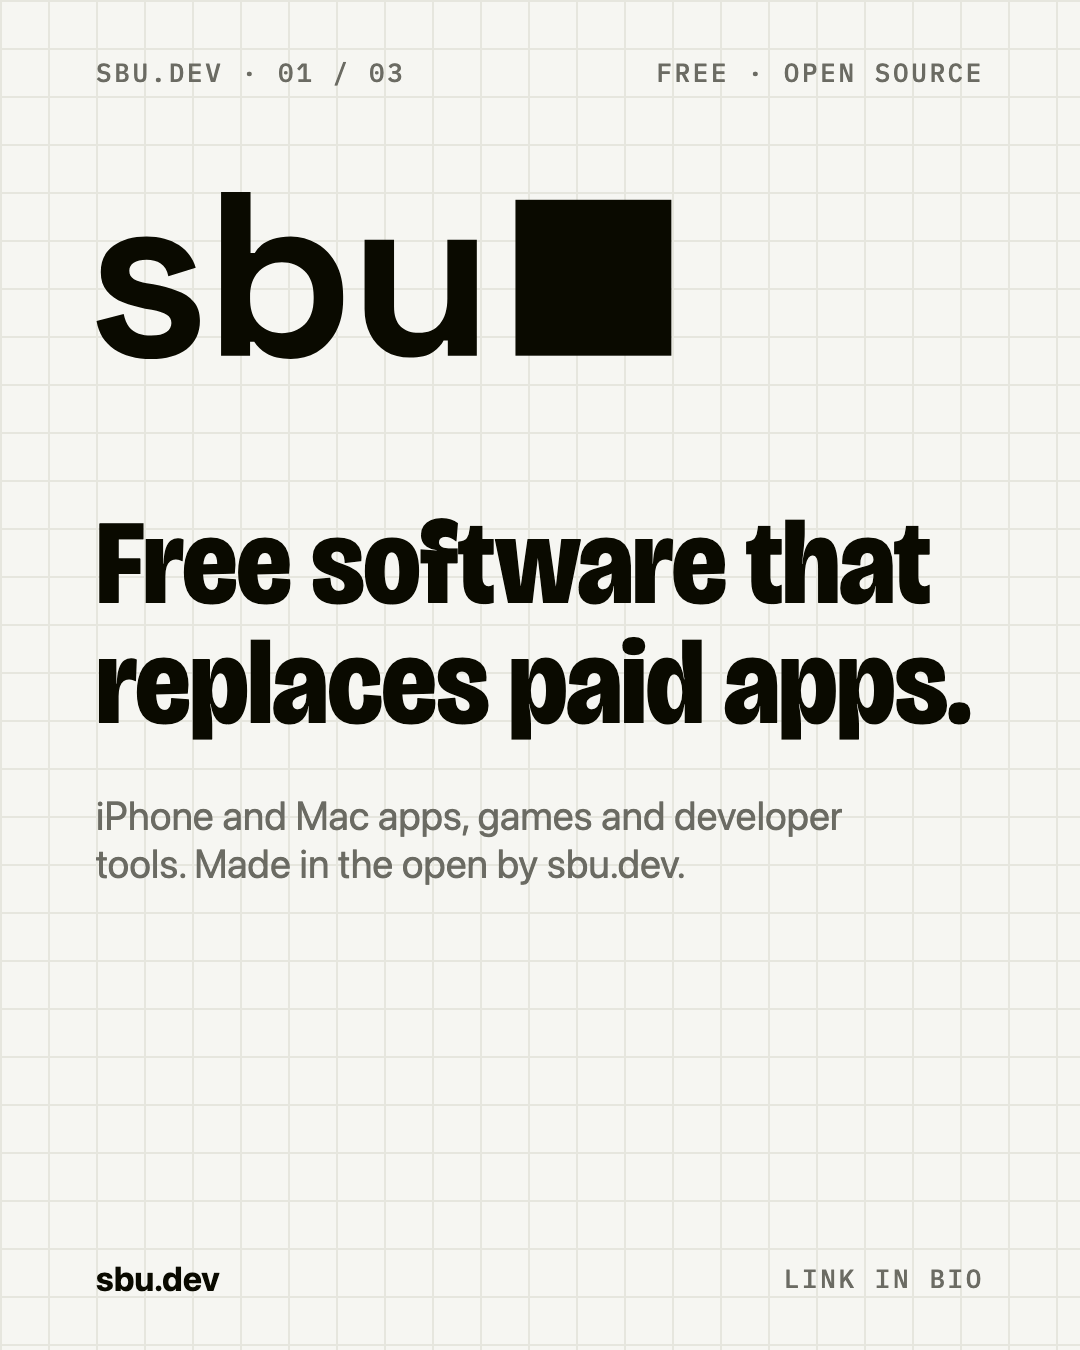
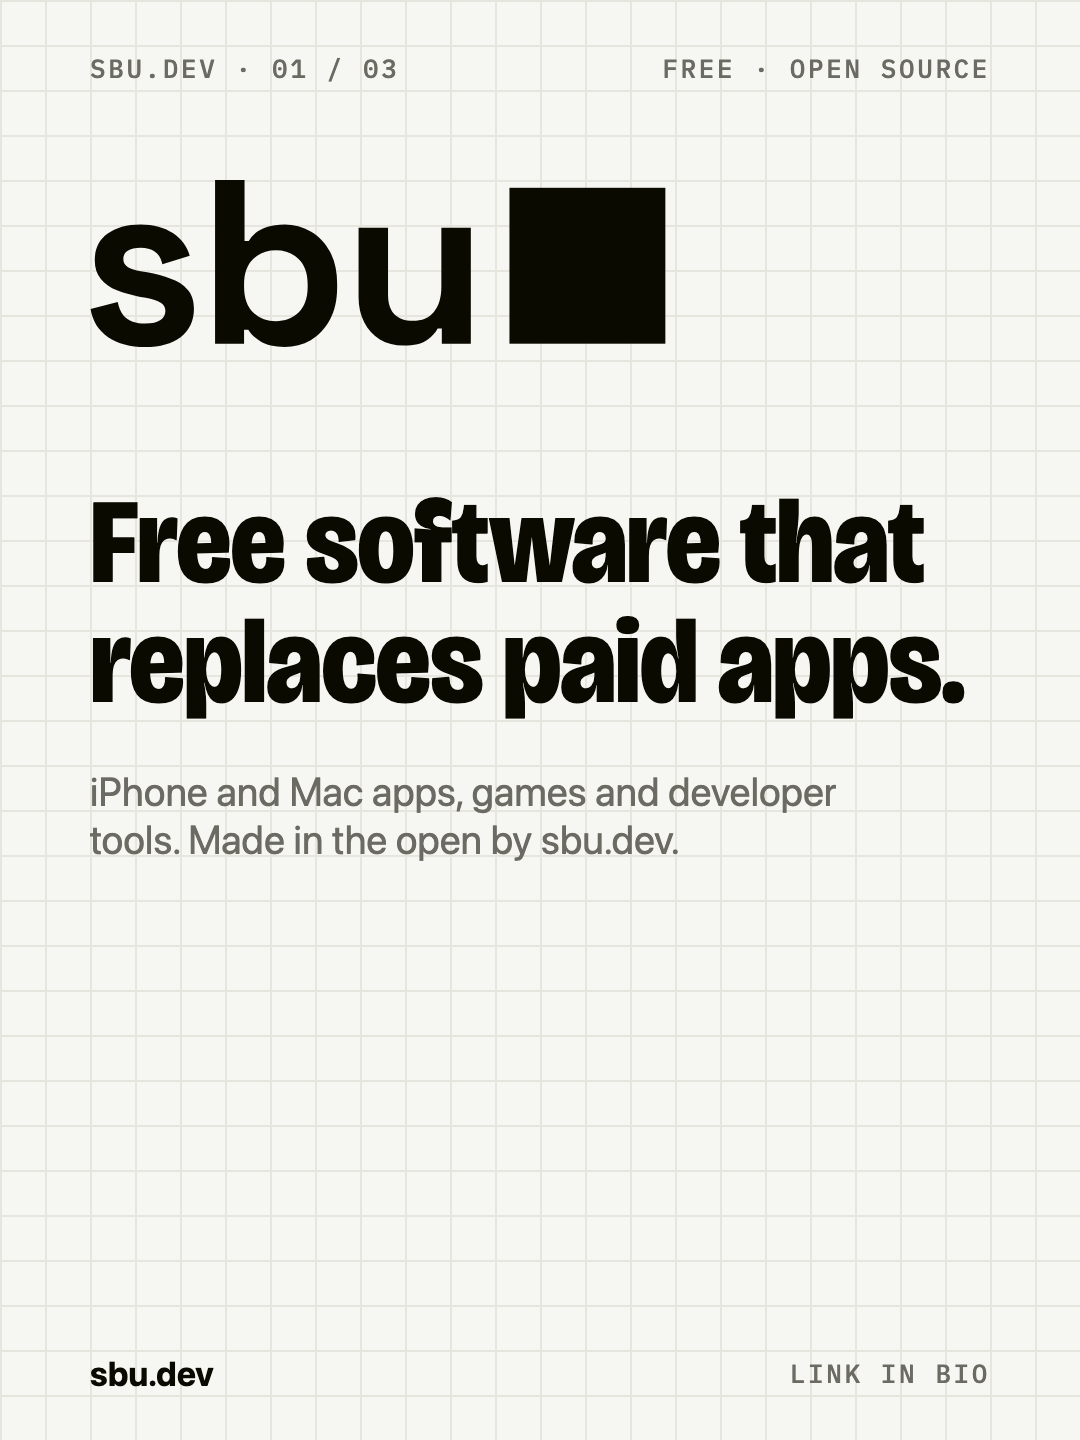
marketing: Instagram grid is one endless notebook, posts at 1080x1440
Matteo's idea (SBU-386): the profile grid reads as a single squared sheet.
- posts 3:4 (1080x1440), the shape of the profile grid
- cell 45 px (24 x 32 per post), lines only on the left and top of each cell,
  so the edge between two posts never doubles
- render.py also writes grid-preview.png (3 posts, 3 px gap) to check it
- README: the notebook rule for every future post

diff --git a/marketing/social/instagram/source/instagram.html b/marketing/social/instagram/source/instagram.html
@@ -15,8 +15,8 @@
     --ink-muted: #6b6b63;    /* ink-muted */
     --grid: #e6e6de;         /* grid */
     --line: #e2e2da;         /* line */
-    --cell: 48px;            /* grid-cell 24 at 2x: a 1080 px post shows at about 400-470 pt */
-    --margin: 96px;          /* two cells, a grid line falls on it */
+    --cell: 45px;            /* grid-cell at about 2x. 45 divides 1080 and 1440, so every post starts and ends on a line (24 × 32 cells) */
+    --margin: 90px;          /* two cells, a grid line falls on it */
     --display: "Bricolage Grotesque", -apple-system, "SF Pro Display", system-ui, sans-serif;
     --sans: -apple-system, "SF Pro Text", system-ui, sans-serif;
     --mono: "IBM Plex Mono", ui-monospace, "SF Mono", monospace;
@@ -25,6 +25,8 @@
   html, body { background: var(--paper); }
   .frame { display: none; position: relative; overflow: hidden; color: var(--ink); }
   .frame.on { display: block; }
+  /* One endless notebook across the profile grid: every post has the same paper, line colour and width, and a line only on the
+     left and top side of each cell, so the edge between two posts never doubles. Content never crosses a post edge. */
   .paper {
     background-color: var(--paper);
     background-image:
@@ -32,7 +34,7 @@
       linear-gradient(to bottom, var(--grid) 0 2px, transparent 2px);
     background-size: var(--cell) var(--cell);
   }
-  .post { width: 1080px; height: 1350px; }
+  .post { width: 1080px; height: 1440px; }  /* 3:4, the shape of the profile grid */
   .cover { width: 1080px; height: 1920px; }
   .profile { width: 1080px; height: 1080px; }
 
@@ -106,7 +108,7 @@
 <section class="frame cover paper" id="highlight-open-source"><div class="label"><p class="cartiglio">sbu.dev · 04</p><p class="word medium">Open<br>source<i class="stop"></i></p></div></section>
 <section class="frame cover paper" id="highlight-faq"><div class="label"><p class="cartiglio">sbu.dev · 05</p><p class="word">FAQ<i class="stop"></i></p></div></section>
 
-<!-- Grid posts, 4:5 -->
+<!-- Grid posts, 3:4 -->
 <section class="frame post paper" id="post-1-intro">
   <div class="top"><span class="cartiglio">sbu.dev · 01 / 03</span><span class="cartiglio">free · open source</span></div>
   <div class="body">

diff --git a/marketing/social/instagram/source/render.py b/marketing/social/instagram/source/render.py
@@ -22,10 +22,13 @@ FRAMES = {
     "highlight-dev-tools": (1080, 1920),
     "highlight-open-source": (1080, 1920),
     "highlight-faq": (1080, 1920),
-    "post-1-intro": (1080, 1350),
-    "post-2-promises": (1080, 1350),
-    "post-3-projects": (1080, 1350),
+    "post-1-intro": (1080, 1440),
+    "post-2-promises": (1080, 1440),
+    "post-3-projects": (1080, 1440),
 }
+
+
+POSTS = ["post-1-intro", "post-2-promises", "post-3-projects"]  # left to right in the profile once published 3, 2, 1
 
 
 class QuietHandler(SimpleHTTPRequestHandler):
@@ -66,6 +69,16 @@ def main():
         shoot(f"{page}?f={name}", OUT / f"{name}.png", width, height)
         print(f"{name}.png {width}×{height}")
     server.shutdown()
+    if any(n in POSTS for n in names):
+        grid_preview()
+
+
+def grid_preview():
+    """The three posts side by side with the 3 px gap of the profile grid, newest first: the cells must line up."""
+    files = [str(OUT / f"{n}.png") for n in POSTS]
+    subprocess.run(["magick", *files, "-background", "white", "-splice", "3x0", "+append", "-chop", "3x0", "-alpha", "off",
+                    str(OUT / "grid-preview.png")], check=True, capture_output=True)
+    print("grid-preview.png")
 
 
 if __name__ == "__main__":

diff --git a/marketing/social/instagram/README.md b/marketing/social/instagram/README.md
@@ -52,15 +52,27 @@ Everything is on sbu.dev, link in bio.
 | Open source | `highlight-open-source.png` | codice e GitHub |
 | FAQ | `highlight-faq.png` | domande frequenti |
 
+## Il quaderno della griglia (regola per tutti i post, anche quelli futuri)
+
+Deciso da Matteo il 23/11/2026: la griglia del profilo è un unico quaderno a quadretti senza fine. Ogni post è un pezzo dello stesso foglio, e i quadretti continuano da un post all'altro.
+
+- **Formato 1080×1440 (3:4).** È la forma con cui la griglia del profilo mostra i post: con un 4:5 Instagram taglierebbe i bordi.
+- **Quadretto da 45 px, riga da 2 px nel colore `grid` (#e6e6de), su fondo `paper` (#f6f6f2).** 45 divide sia 1080 sia 1440: ogni post ha 24 × 32 quadretti, comincia su una riga e finisce su una riga.
+- **La riga sta solo sul lato sinistro e su quello in alto di ogni quadretto.** Sul bordo destro e su quello basso il post non ha riga: la mette il post accanto, così sul bordo la riga non diventa doppia.
+- **Fondo, colore e spessore della riga sono uguali in tutti i post.** Così il quaderno regge qualsiasi ordine, anche quando Instagram sposta tutta la griglia di una casella a ogni post nuovo.
+- **Il contenuto resta dentro il suo post.** Niente testo o disegni a cavallo tra due post, perché lo spostamento di una casella li spezzerebbe. Continua solo il foglio.
+- **Ogni post nuovo si fa in `source/instagram.html`**, con la classe `post paper`, e si controlla in `grid-preview.png`.
+
 ## File
 
 | File | Misure | Cosa |
 |---|---|---|
 | `profile-1080.png` | 1080×1080 | Il marchio di `Design/logos/sbu-mark.svg` su un quadrato pieno di `ink`. La scritta è larga 708 px al centro, quindi il ritaglio a cerchio non la tocca. Si legge anche a 110 px. |
 | `highlight-*.png` | 1080×1920 | Copertine: la parola sta nel cerchio centrale di 1080 px, l'unica parte che Instagram mostra |
-| `post-1-intro.png` | 1080×1350 (4:5) | Il marchio e «Free software that replaces paid apps.» |
-| `post-2-promises.png` | 1080×1350 (4:5) | La cifra 0 e le promesse: no subscriptions, no ads, no tracking, open source |
-| `post-3-projects.png` | 1080×1350 (4:5) | Tutti i progetti, ognuno con icona, nome, piattaforma e stato |
+| `post-1-intro.png` | 1080×1440 (3:4) | Il marchio e «Free software that replaces paid apps.» |
+| `post-2-promises.png` | 1080×1440 (3:4) | La cifra 0 e le promesse: no subscriptions, no ads, no tracking, open source |
+| `post-3-projects.png` | 1080×1440 (3:4) | Tutti i progetti, ognuno con icona, nome, piattaforma e stato |
+| `grid-preview.png` | 3246×1440 | I tre post affiancati come nel profilo, con 3 px di stacco: serve a controllare che i quadretti combacino |
 | `source/instagram.html` | | Sorgente unico, con un frame per file (`?f=<nome>`) |
 | `source/render.py` | | Esporta i PNG |
 
@@ -82,6 +94,6 @@ python3 marketing/social/instagram/source/render.py                    # tutti
 python3 marketing/social/instagram/source/render.py post-3-projects    # uno solo
 ```
 
-Servono Google Chrome (headless) e ImageMagick (`magick`). Lo script avvia un server locale su una porta libera scelta dal sistema, lo spegne alla fine e controlla le misure di ogni PNG.
+Servono Google Chrome (headless) e ImageMagick (`magick`). Dopo i post rifà anche `grid-preview.png`. Lo script avvia un server locale su una porta libera scelta dal sistema, lo spegne alla fine e controlla le misure di ogni PNG.
 
 Quando un progetto cambia stato, aggiorna la sua casella nel frame `post-3-projects` e riesporta. Il post già pubblicato resta com'è.

diff --git a/marketing/social/tiktok-instagram.md b/marketing/social/tiktok-instagram.md
@@ -67,7 +67,7 @@ Profilo TikTok: bio corta da `bio.md` ("App iPhone gratis. Una cosa sola. Niente
 
 Profilo Instagram (@sbu_dev), in inglese dal 23/11/2026, presenta tutto sbu.dev: nome, categoria, bio e link nella sezione «Instagram (EN)» di `bio.md`. Foto profilo, copertine delle Storie in evidenza (Apps, Games, Dev tools, Open source, FAQ) e i tre post di apertura della griglia sono in `instagram/`; il README ha la lista per pubblicare con ordine, file e didascalie. Hashtag in inglese: `#iphone #freeapps #nosubscription` più uno. Quando escono, fissare in alto i video 7, 1 e 3.
 
-Instagram in più: ogni Reel va anche nelle Storie con lo sticker link alla pagina app, e il carosello settimanale a 5 slide (prezzo dell'originale, cosa fa, la Cifra, le sei promesse, link) ricavato dagli screenshot fastlane già pronti. Il feed è il quaderno: carta, reticolo, una cifra per post.
+Instagram in più: ogni Reel va anche nelle Storie con lo sticker link alla pagina app, e il carosello settimanale a 5 slide (prezzo dell'originale, cosa fa, la Cifra, le sei promesse, link) ricavato dagli screenshot fastlane già pronti. Il feed è il quaderno: carta, reticolo, una cifra per post. I post della griglia sono 1080×1440 e il reticolo continua da un post all'altro: le regole sono in `instagram/README.md` («Il quaderno della griglia»).
 
 Commenti: rispondere a tutti nella prima ora. Chi scrive "e Android?" riceve sempre la stessa risposta: "Solo iPhone, per ora. Il codice è pubblico, se qualcuno la porta su Android la linkiamo."
 
